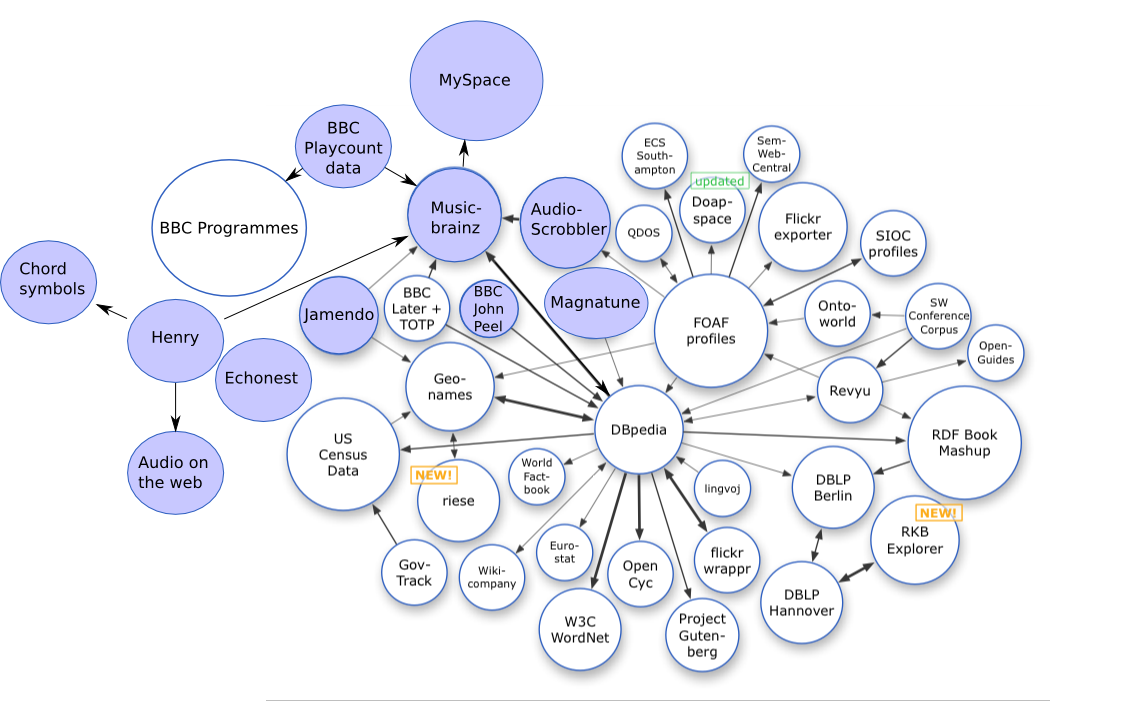
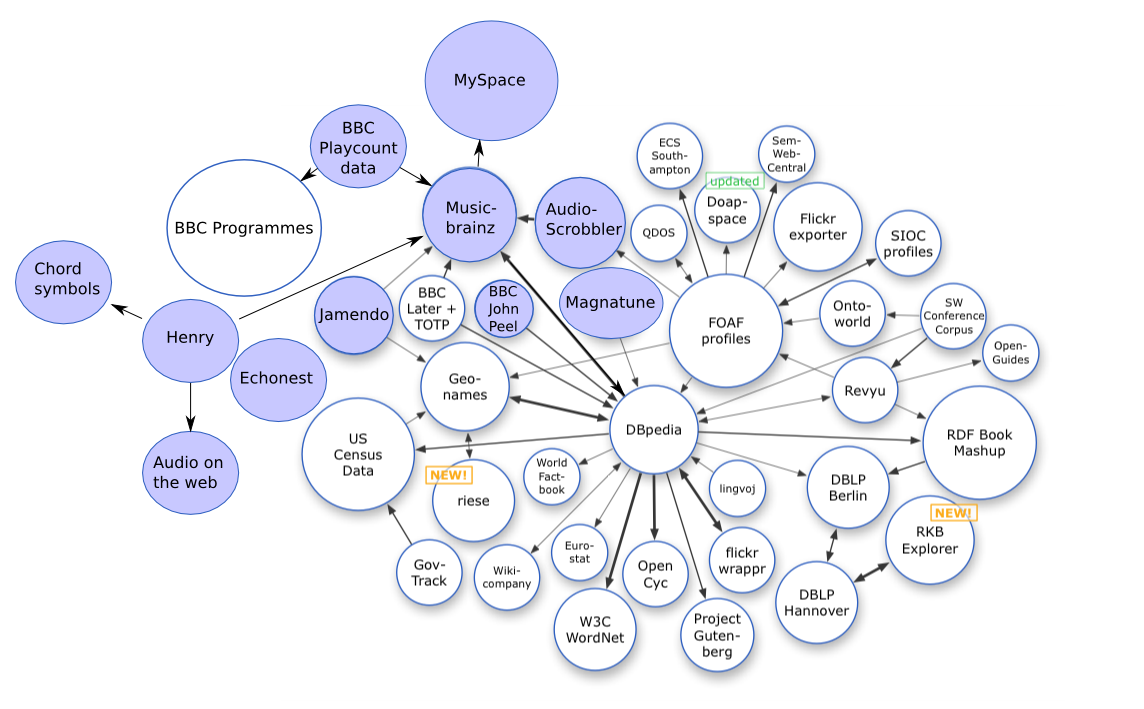
DBTune LOD diagram

Changed region(s): [[0.0, 0.0312, 0.93, 0.966]]

diff --git a/dbtune/doc/dbtune.html b/dbtune/doc/dbtune.html
@@ -91,6 +91,19 @@ of person to a geographical location".
 
 <h2><a name="datasets" id="datasets"></a>3. Available datasets</h2>
 <p>
+The datasets available on this server, as well as their interlinks, can 
+be depicted as follows.
+</p>
+<p>
+<img src="lod.png" alt="Depiction of the different DBTune datasets" width="70%"/>
+</p>
+<p>
+Original diagram from <a href="http://dowhatimean.net/">Richard
+Cyganiak</a> under the <a href="http://creativecommons.org/licenses/by-sa/3.0/">CC-BY-SA</a> license.
+</p>
+
+
+<p>
 The following datasets are available on this server:
 
 <ol>
